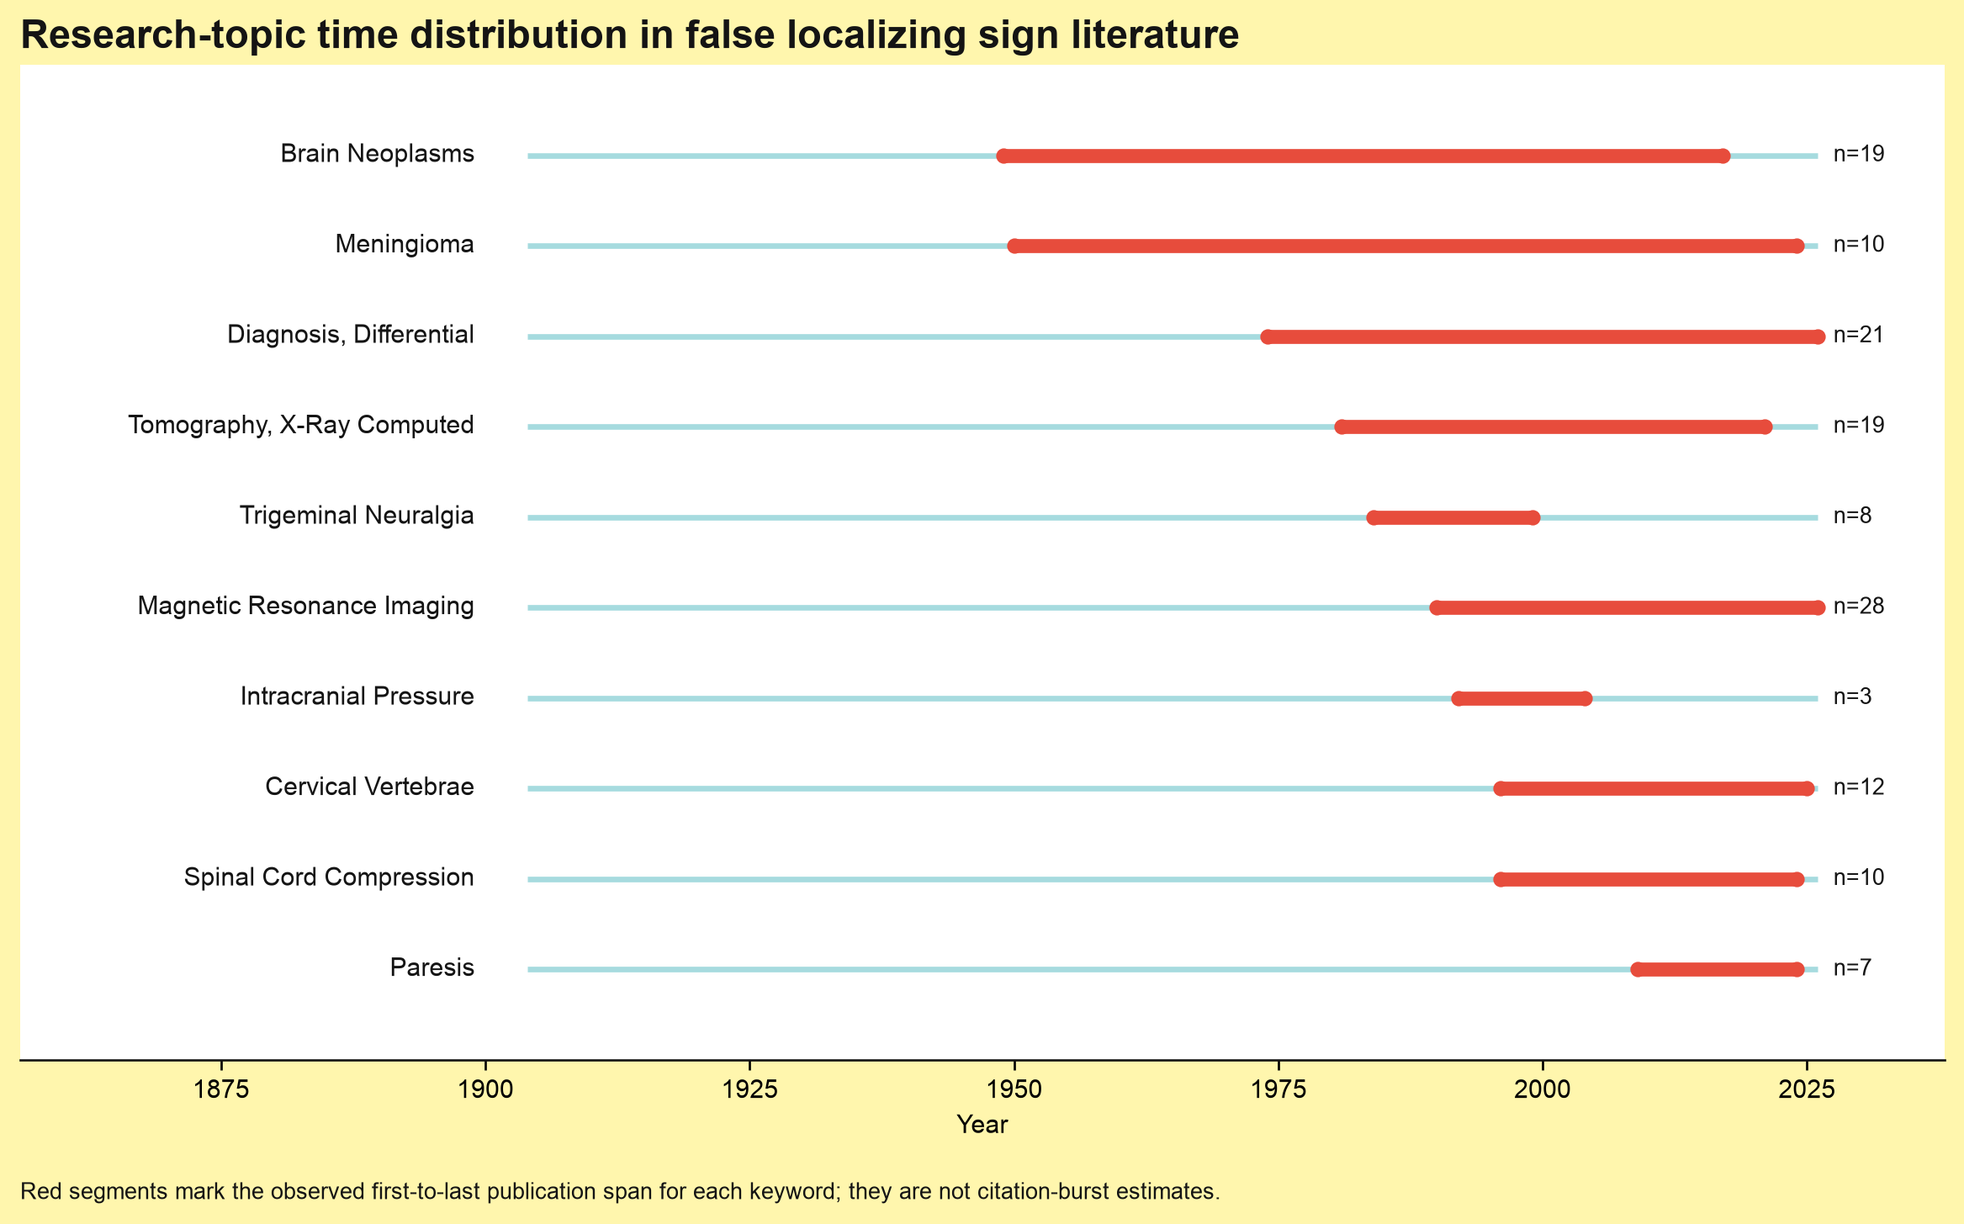
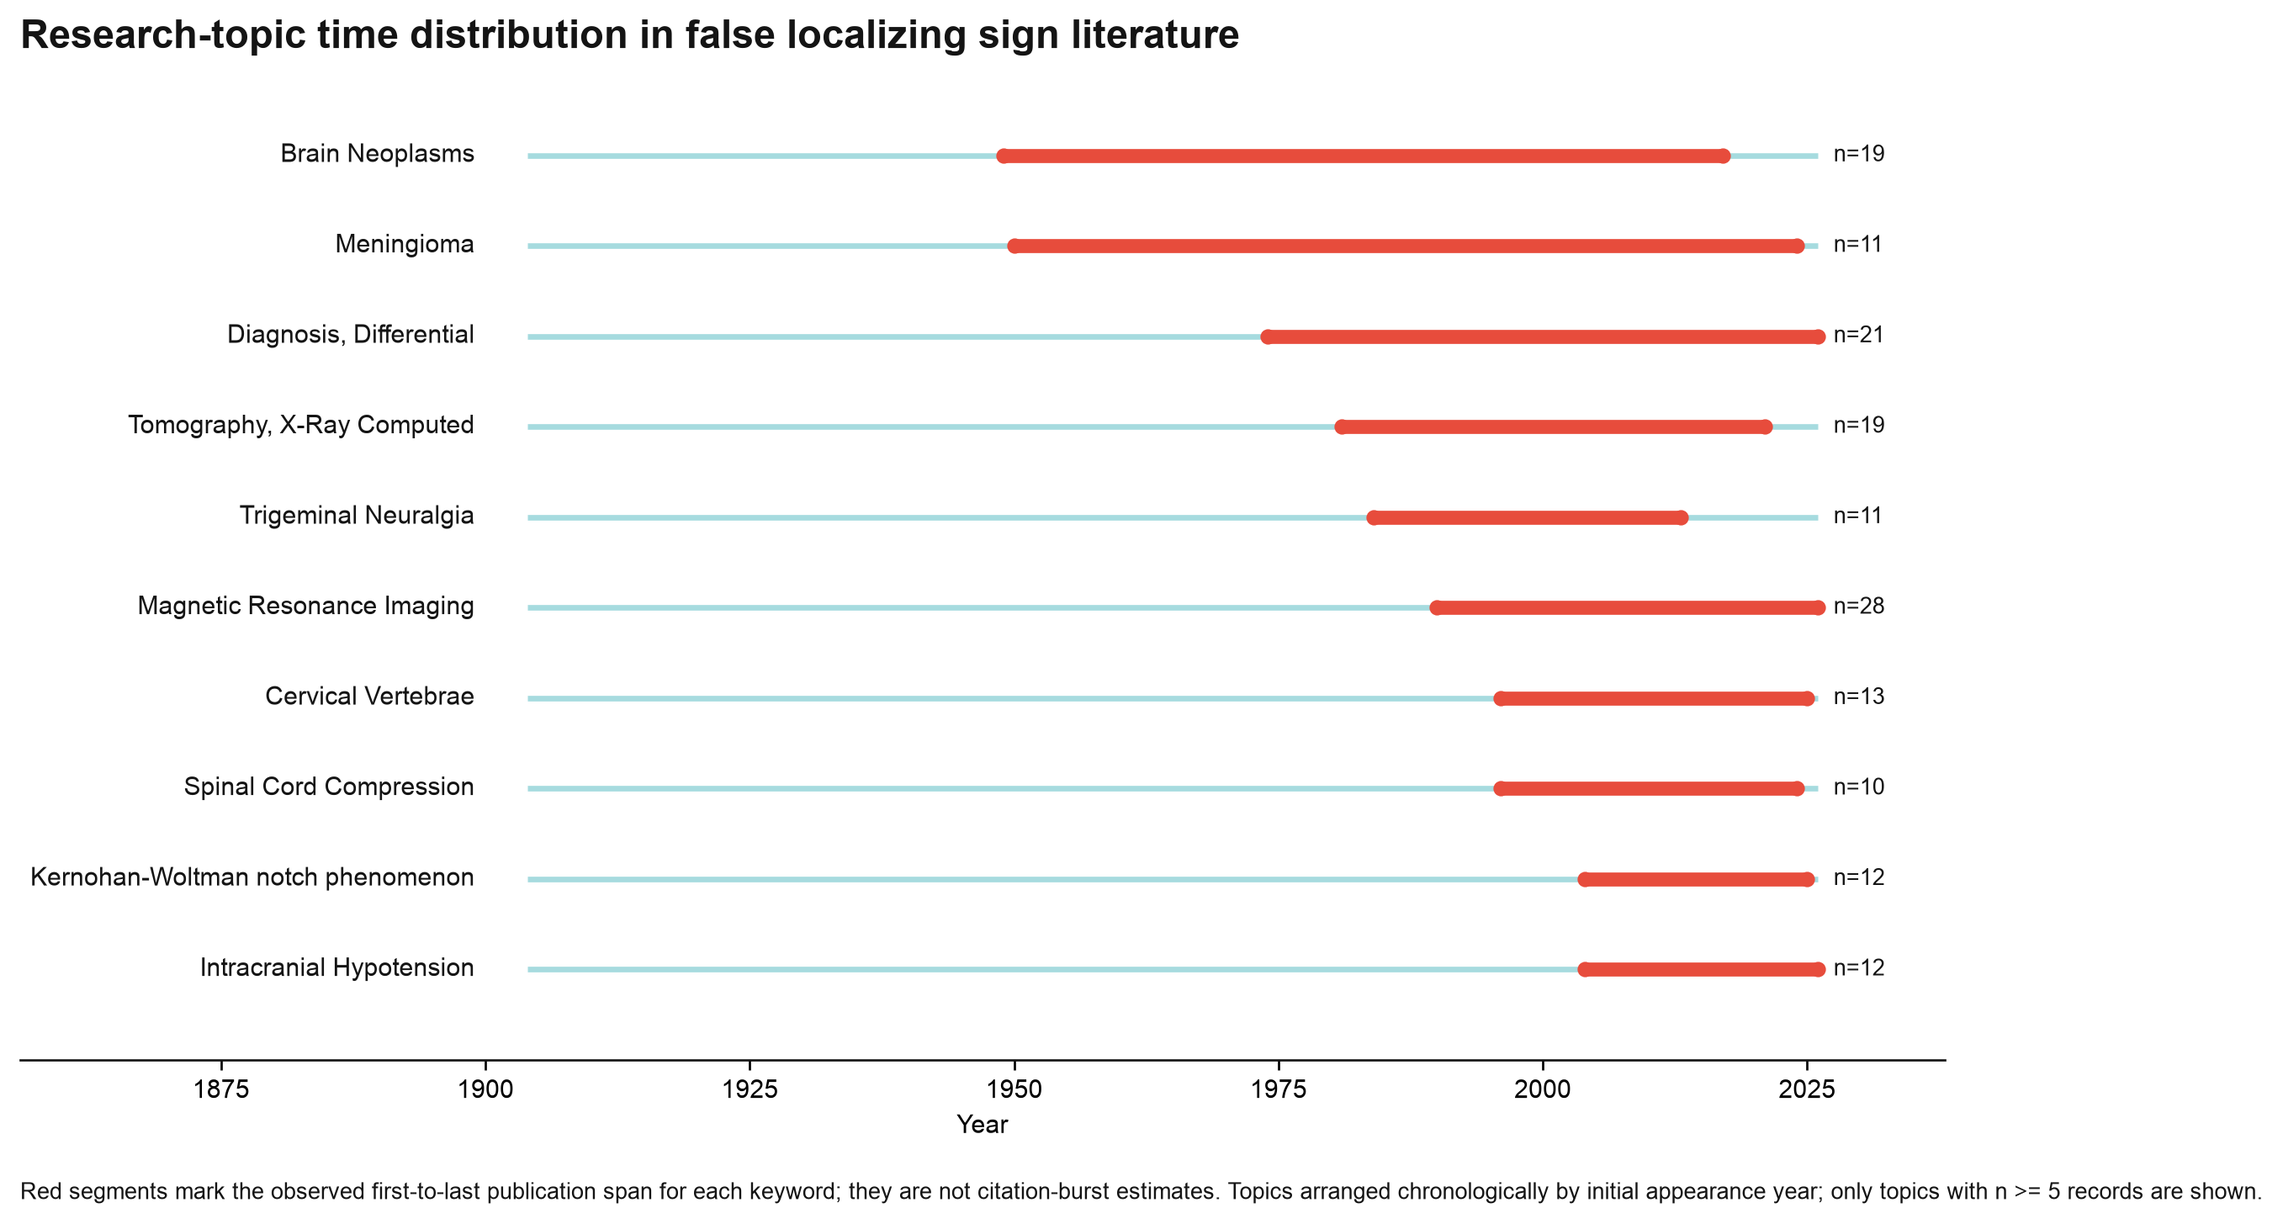
update: 2026-08-30 23:47:28

diff --git a/jiliang/3_keyword_analysis.py b/jiliang/3_keyword_analysis.py
@@ -62,7 +62,82 @@ def clean_keyword_text(kw: str) -> str:
     return kw
 
 
-def extract_record_keywords(keyword_string: str, stopwords: set) -> list:
+def norm_key(kw: str) -> str:
+    """归一化键：小写、统一连字符/撇号、压缩空白。"""
+    k = kw.lower()
+    for a, b in [("–", "-"), ("—", "-"), ("‑", "-"), ("’", "'"), ("´", "'")]:
+        k = k.replace(a, b)
+    return re.sub(r"\s+", " ", k).strip()
+
+
+def build_keyword_mapper(df: pd.DataFrame, stopwords: set, config: dict) -> dict:
+    """构建 表面形式 -> 规范词 映射：先按 config 同义词表合并，
+    再自动合并大小写/连字符变体（等效 VOSviewer 的 thesaurus.txt 预处理）。"""
+    thesaurus = {}
+    for canonical, variants in config.get("keyword", {}).get("thesaurus", {}).items():
+        for v in variants:
+            thesaurus[norm_key(v)] = canonical
+    surfaces = Counter()
+    for val in df["keywords"].fillna(""):
+        for part in str(val).split(";"):
+            kw = clean_keyword_text(part)
+            if (kw and kw.lower() not in stopwords and len(kw) <= 100
+                    and not re.match(r"^\d+$", kw)):
+                surfaces[kw] += 1
+    groups = {}
+    for kw in surfaces:
+        groups.setdefault(norm_key(kw), []).append(kw)
+    mapping = {}
+    for key, forms in groups.items():
+        canonical = thesaurus.get(key)
+        if canonical is None:
+            # 频次最高者优先；并列时偏好标题式写法（非全大写/全小写）
+            canonical = sorted(forms,
+                               key=lambda f: (surfaces[f], not f.isupper(), not f.islower()),
+                               reverse=True)[0]
+        for f in forms:
+            mapping[f] = canonical
+    return mapping
+
+
+def adjust_labels(ax, texts, iterations=1200):
+    """简单斥力算法消除标签重叠（等效 VOSviewer 的 prevent label overlap）。"""
+    fig = ax.figure
+    fig.canvas.draw()
+    renderer = fig.canvas.get_renderer()
+    inv = ax.transData.inverted()
+    for _ in range(iterations):
+        boxes = [t.get_window_extent(renderer=renderer) for t in texts]
+        moved = False
+        for i in range(len(texts)):
+            for j in range(i + 1, len(texts)):
+                b1, b2 = boxes[i], boxes[j]
+                if not b1.overlaps(b2):
+                    continue
+                dx = min(b1.x1, b2.x1) - max(b1.x0, b2.x0)
+                dy = min(b1.y1, b2.y1) - max(b1.y0, b2.y0)
+                c1x, c1y = (b1.x0 + b1.x1) / 2, (b1.y0 + b1.y1) / 2
+                c2x, c2y = (b2.x0 + b2.x1) / 2, (b2.y0 + b2.y1) / 2
+                if dy <= dx:
+                    shift = (dy / 2 + 2.5) * (1 if c1y >= c2y else -1)
+                    for t, s in ((texts[i], shift), (texts[j], -shift)):
+                        x, y = t.get_position()
+                        y0 = inv.transform((0, 0))[1]
+                        y1 = inv.transform((0, s))[1]
+                        t.set_position((x, y + (y1 - y0)))
+                else:
+                    shift = (dx / 2 + 2.5) * (1 if c1x >= c2x else -1)
+                    for t, s in ((texts[i], shift), (texts[j], -shift)):
+                        x, y = t.get_position()
+                        x0 = inv.transform((0, 0))[0]
+                        x1 = inv.transform((s, 0))[0]
+                        t.set_position((x + (x1 - x0), y))
+                moved = True
+        if not moved:
+            break
+
+
+def extract_record_keywords(keyword_string: str, stopwords: set, mapper: dict = None) -> list:
     if pd.isna(keyword_string) or not str(keyword_string).strip():
         return []
     result = []
@@ -75,14 +150,14 @@ def extract_record_keywords(keyword_string: str, stopwords: set) -> list:
         # 排除过长或纯数字
         if len(kw) > 100 or re.match(r"^\d+$", kw):
             continue
-        result.append(kw)
+        result.append(mapper.get(kw, kw) if mapper else kw)
     return result
 
 
-def top_keywords_table(df: pd.DataFrame, stopwords: set, config: dict):
+def top_keywords_table(df: pd.DataFrame, stopwords: set, config: dict, mapper: dict = None):
     all_kws = []
     for _, row in df.iterrows():
-        all_kws.extend(extract_record_keywords(row.get("keywords"), stopwords))
+        all_kws.extend(extract_record_keywords(row.get("keywords"), stopwords, mapper))
     counts = Counter(all_kws)
     top_n = config["analysis"]["top_n_keywords"]
     top = counts.most_common(top_n)
@@ -93,14 +168,15 @@ def top_keywords_table(df: pd.DataFrame, stopwords: set, config: dict):
     return counts, table
 
 
-def cooccurrence_network(df: pd.DataFrame, counts: Counter, stopwords: set, config: dict):
+def cooccurrence_network(df: pd.DataFrame, counts: Counter, stopwords: set, config: dict,
+                         mapper: dict = None):
     min_count = config["analysis"]["min_keyword_count"]
     min_cooc = config["analysis"]["min_cooccurrence"]
 
     selected = {kw for kw, c in counts.items() if c >= min_count}
     edge_counter = Counter()
     for _, row in df.iterrows():
-        kws = [k for k in extract_record_keywords(row.get("keywords"), stopwords)
+        kws = [k for k in extract_record_keywords(row.get("keywords"), stopwords, mapper)
                if k in selected]
         for a, b in itertools.combinations(sorted(set(kws)), 2):
             edge_counter[(a, b)] += 1
@@ -123,14 +199,23 @@ def cooccurrence_network(df: pd.DataFrame, counts: Counter, stopwords: set, conf
         G.add_edge(a, b, weight=w)
 
     colors = config.get("colors", {})
-    primary = colors.get("primary", "#2874A6")
     edge_color = colors.get("grid", "#999999")
     text_color = colors.get("text", "#333333")
 
-    # 节点按频次使用从浅到深的渐变（低频次仍保持可见）
     node_weights = [G.nodes[n].get("weight", 1) for n in G.nodes()]
-    cmap = mcolors.LinearSegmentedColormap.from_list(
-        "nature_nodes", ["#D6EAF8", primary])
+
+    # 模块度聚类（modularity-based clustering），不同社区赋不同颜色
+    if G.number_of_edges():
+        communities = list(nx.algorithms.community.greedy_modularity_communities(G))
+    else:
+        communities = [set(G.nodes())]
+    palette = ["#4C78A8", "#F58518", "#54A24B", "#E45756", "#B279A2",
+               "#EECA3B", "#72B7B2", "#9D755D", "#636363", "#17BECF"]
+    comm_idx = {}
+    for i, com in enumerate(sorted(communities, key=len, reverse=True)):
+        for n in com:
+            comm_idx[n] = i
+    node_colors = [palette[comm_idx.get(n, 0) % len(palette)] for n in G.nodes()]
 
     fig, ax = plt.subplots(figsize=(14, 12))
     pos = nx.spring_layout(G, k=2.5, iterations=200, seed=42)
@@ -141,12 +226,13 @@ def cooccurrence_network(df: pd.DataFrame, counts: Counter, stopwords: set, conf
         edge_widths = [0.5 + 1.8 * d["weight"] / max_weight for _, _, d in G.edges(data=True)]
     else:
         edge_widths = []
-    nx.draw_networkx_nodes(G, pos, node_size=node_sizes, node_color=node_weights,
-                           cmap=cmap, alpha=0.92, edgecolors="white", linewidths=1.0, ax=ax)
+    nx.draw_networkx_nodes(G, pos, node_size=node_sizes, node_color=node_colors,
+                           alpha=0.92, edgecolors="white", linewidths=1.0, ax=ax)
     nx.draw_networkx_edges(G, pos, width=edge_widths, alpha=0.35,
                            edge_color=edge_color, ax=ax)
-    nx.draw_networkx_labels(G, pos, font_size=8, font_family="sans-serif",
-                            font_color=text_color, ax=ax)
+    texts = nx.draw_networkx_labels(G, pos, font_size=8, font_family="sans-serif",
+                                    font_color=text_color, ax=ax)
+    adjust_labels(ax, list(texts.values()))  # 防标签重叠
     ax.set_title("Keyword co-occurrence network (MeSH / other terms)")
     ax.axis("off")
     fig.tight_layout()
@@ -194,8 +280,9 @@ def main():
     print(f"[3_keyword_analysis] Loaded {len(df)} records.")
 
     stopwords = set([w.lower() for w in config.get("keyword", {}).get("stopwords", [])])
-    counts, _ = top_keywords_table(df, stopwords, config)
-    cooccurrence_network(df, counts, stopwords, config)
+    mapper = build_keyword_mapper(df, stopwords, config)
+    counts, _ = top_keywords_table(df, stopwords, config, mapper)
+    cooccurrence_network(df, counts, stopwords, config, mapper)
     keyword_wordcloud(counts, config)
 
     print("[3_keyword_analysis] Done.")

diff --git a/jiliang/input/info/build_info_style_report.py b/jiliang/input/info/build_info_style_report.py
@@ -10,7 +10,10 @@ from __future__ import annotations
 from collections import Counter, defaultdict
 from itertools import combinations
 from pathlib import Path
+import importlib.util
 import re
+
+import yaml
 
 import matplotlib.pyplot as plt
 from matplotlib import gridspec
@@ -46,11 +49,36 @@ def style():
     })
 
 
-def save(fig, name):
+def save(fig, name, facecolor=YELLOW):
     path = WORK / name
-    fig.savefig(path, dpi=240, bbox_inches='tight', facecolor=YELLOW)
+    fig.savefig(path, dpi=240, bbox_inches='tight', facecolor=facecolor)
     plt.close(fig)
     return path
+
+
+# ---- 同义词归一化（复用 3_keyword_analysis.py 的实现与 config.yaml 同义词表）----
+def _kw_module():
+    spec = importlib.util.spec_from_file_location('kw_analysis', ROOT / '3_keyword_analysis.py')
+    m = importlib.util.module_from_spec(spec)
+    spec.loader.exec_module(m)
+    return m
+
+
+_KW = _kw_module()
+_CONFIG = yaml.safe_load(open(ROOT / 'config.yaml', encoding='utf-8'))
+_STOPWORDS = {w.lower() for w in _CONFIG.get('keyword', {}).get('stopwords', [])}
+_MAPPER_CACHE = None
+
+
+def kw_mapper(df):
+    global _MAPPER_CACHE
+    if _MAPPER_CACHE is None:
+        _MAPPER_CACHE = _KW.build_keyword_mapper(df, _STOPWORDS, _CONFIG)
+    return _MAPPER_CACHE
+
+
+def map_terms(items, mapper):
+    return list(dict.fromkeys(mapper.get(x, x) for x in items))
 
 
 def keywords(value):
@@ -136,8 +164,9 @@ def make_author_table(df):
 def network_data(df):
     counts = Counter()
     edges = Counter()
+    mapper = kw_mapper(df)
     for val in df['keywords']:
-        items = list(dict.fromkeys(keywords(val)))
+        items = map_terms(keywords(val), mapper)
         counts.update(items)
     # Remove demographic/indexing terms and retain a legible set of substantive
     # research concepts.  This avoids a decorative but unreadable dense graph.
@@ -151,7 +180,7 @@ def network_data(df):
                   and not x.lower().startswith('false localiz')]
     selected = {x for x, _ in sorted(candidates, key=lambda item: (-item[1], item[0]))[:26]}
     for val in df['keywords']:
-        items = sorted(set(x for x in keywords(val) if x in selected))
+        items = sorted(set(x for x in map_terms(keywords(val), mapper) if x in selected))
         edges.update(combinations(items, 2))
     G = nx.Graph()
     for item in selected: G.add_node(item, frequency=counts[item])
@@ -162,7 +191,7 @@ def network_data(df):
 
 def make_network_and_clusters(df):
     G, _ = network_data(df)
-    pos = nx.spring_layout(G, seed=19, k=1.35, iterations=250)
+    pos = nx.spring_layout(G, seed=19, k=1.5, iterations=250)
     communities = list(nx.algorithms.community.greedy_modularity_communities(G)) if G.number_of_edges() else [set(G.nodes())]
     community_index = {n: i for i, c in enumerate(communities) for n in c}
     fig = plt.figure(figsize=(13, 6.8)); gs = gridspec.GridSpec(1, 2, width_ratios=[1.08, 1])
@@ -173,18 +202,32 @@ def make_network_and_clusters(df):
         colors = '#8ecae6' if idx == 0 else [PALETTE[community_index[n] % len(PALETTE)] for n in G.nodes]
         nx.draw_networkx_edges(G, pos, width=widths, alpha=.35, edge_color='#7a7a7a', ax=ax)
         nx.draw_networkx_nodes(G, pos, node_size=sizes, node_color=colors, alpha=.9, edgecolors='white', linewidths=.8, ax=ax)
-        nx.draw_networkx_labels(G, pos, font_size=7, ax=ax)
-        ax.margins(0.22)
+        ax.margins(0.22)  # 必须先固定坐标范围，再进行像素级标签防重叠
+        texts = nx.draw_networkx_labels(G, pos, font_size=7, ax=ax)
+        _KW.adjust_labels(ax, list(texts.values()))  # 防标签重叠
         ax.axis('off')
     fig.suptitle('Keyword analysis of false localizing sign research', fontsize=16, weight='bold', y=1.02)
-    return save(fig, 'fig10_keyword_network_and_clusters.png')
+    return save(fig, 'fig10_keyword_network_and_clusters.png', facecolor='white')
 
 
 def make_timeline(df):
-    tracked = ['Magnetic Resonance Imaging', 'Diagnosis, Differential', 'Brain Neoplasms', 'Tomography, X-Ray Computed', 'Cervical Vertebrae', 'Meningioma', 'Spinal Cord Compression', 'Trigeminal Neuralgia', 'Paresis', 'Intracranial Pressure']
+    # 数据驱动选题：同义词合并后 n >= 5 的高频主题，剔除泛词与主题词本身
+    mapper = kw_mapper(df)
+    generic = {
+        'humans', 'male', 'female', 'middle aged', 'adult', 'aged', 'child',
+        'young adult', 'adolescent', 'aged, 80 and over', 'retrospective studies',
+        'history, 19th century', 'history, 20th century', 'case reports',
+    }
+    counts = Counter()
+    for val in df['keywords']:
+        counts.update(map_terms(keywords(val), mapper))
+    tracked = [t for t, n in counts.most_common()
+               if n >= 5 and t.lower() not in generic
+               and not t.lower().startswith('false localiz')][:10]
     ranges = []
     for term in tracked:
-        years = [int(y) for y, val in zip(df['year'], df['keywords']) if pd.notna(y) and term in keywords(val)]
+        years = [int(y) for y, val in zip(df['year'], df['keywords'])
+                 if pd.notna(y) and term in map_terms(keywords(val), mapper)]
         if years: ranges.append((term, min(years), max(years), len(years)))
     ranges.sort(key=lambda x: (x[1], -x[3]))
     years = list(range(int(df.year.min()), int(df.year.max()) + 1))
@@ -198,9 +241,9 @@ def make_timeline(df):
         ax.text(years[-1] + 1.5, y, f'n={freq}', va='center', fontsize=8)
     ax.set_yticks([]); ax.set_xlim(years[0] - 48, years[-1] + 12); ax.set_ylim(-1, len(ranges))
     ax.set_xlabel('Year'); ax.set_title('Research-topic time distribution in false localizing sign literature', loc='left', weight='bold', fontsize=14)
-    ax.text(0, -0.14, 'Red segments mark the observed first-to-last publication span for each keyword; they are not citation-burst estimates.', transform=ax.transAxes, fontsize=8)
+    ax.text(0, -0.14, 'Red segments mark the observed first-to-last publication span for each keyword; they are not citation-burst estimates. Topics arranged chronologically by initial appearance year; only topics with n >= 5 records are shown.', transform=ax.transAxes, fontsize=8)
     for side in ['top', 'right', 'left']: ax.spines[side].set_visible(False)
-    return save(fig, 'fig11_topic_time_distribution.png')
+    return save(fig, 'fig11_topic_time_distribution.png', facecolor='white')
 
 
 def make_analysis_overview(df):

diff --git a/jiliang/update_figures_v08.py b/jiliang/update_figures_v08.py
@@ -1,0 +1,78 @@
+#!/usr/bin/env python3
+"""Update report v07 -> v08: swap in revised figures (reviewer figure-quality fixes).
+
+Replaced images (regenerated from own data after thesaurus merging, white
+background, modularity clustering and label-overlap prevention):
+  Fig. 6  <- output/figures/fig5_keyword_network.png        (keyword network)
+  Fig. 7  <- output/figures/fig6_keyword_wordcloud.png      (word cloud)
+  Fig. B1 <- input/info/.../fig10_keyword_network_and_clusters.png
+  Fig. B2 <- input/info/.../fig11_topic_time_distribution.png
+Captions updated accordingly (Fig. B2 notes chronological arrangement and the
+n >= 5 filter).
+"""
+from __future__ import annotations
+
+from pathlib import Path
+
+from docx import Document
+from docx.oxml.ns import qn
+from docx.shared import Inches
+from docx.text.paragraph import Paragraph
+
+ROOT = Path('/Users/apple/Desktop/github.local/Li_Project/jiliang')
+SOURCE = ROOT / 'output/report/07_False_Localizing_Sign_文献计量分析报告_Medicine投稿修订版.docx'
+DEST = ROOT / 'output/report/08_False_Localizing_Sign_文献计量分析报告_Medicine投稿修订版v2.docx'
+
+REPLACEMENTS = {
+    'Fig. 6.': (
+        ROOT / 'output/figures/fig5_keyword_network.png',
+        'Fig. 6. Keyword co-occurrence network based on MeSH terms and author keywords. '
+        'Synonymous variants were merged using a thesaurus file before analysis; node colors '
+        'indicate modularity-based clusters and node size is proportional to keyword frequency.'),
+    'Fig. 7.': (
+        ROOT / 'output/figures/fig6_keyword_wordcloud.png',
+        None),  # caption unchanged
+    'Fig. B1.': (
+        ROOT / 'input/info/false_localizing_info_style_figures/fig10_keyword_network_and_clusters.png',
+        'Fig. B1. Keyword co-occurrence network (A) and modularity-based clustered thematic '
+        'structure (B). Synonymous variants were merged using a thesaurus file before analysis.'),
+    'Fig. B2.': (
+        ROOT / 'input/info/false_localizing_info_style_figures/fig11_topic_time_distribution.png',
+        'Fig. B2. Observed time span of major research topics. Topics arranged chronologically '
+        'by initial appearance year; only topics with n >= 5 records are shown.'),
+}
+
+
+def rewrite(p, text):
+    if p.runs:
+        p.runs[0].text = text
+        for r in p.runs[1:]:
+            r._element.getparent().remove(r._element)
+    else:
+        p.add_run(text)
+
+
+def main():
+    doc = Document(SOURCE)
+    for p in doc.paragraphs:
+        t = p.text.strip()
+        for prefix, (img, caption) in REPLACEMENTS.items():
+            if not t.startswith(prefix):
+                continue
+            el = p._p.getprevious()
+            while el is not None and not el.findall('.//' + qn('w:drawing')):
+                el = el.getprevious()
+            assert el is not None, f'未找到 {prefix} 对应的图片段落'
+            pic_par = Paragraph(el, p._parent)
+            pic_par.clear()
+            pic_par.add_run().add_picture(str(img), width=Inches(6.25))
+            if caption:
+                rewrite(p, caption)
+            print(f'已替换 {prefix} 图片 -> {img.name}')
+            break
+    doc.save(DEST)
+    print(DEST)
+
+
+if __name__ == '__main__':
+    main()
